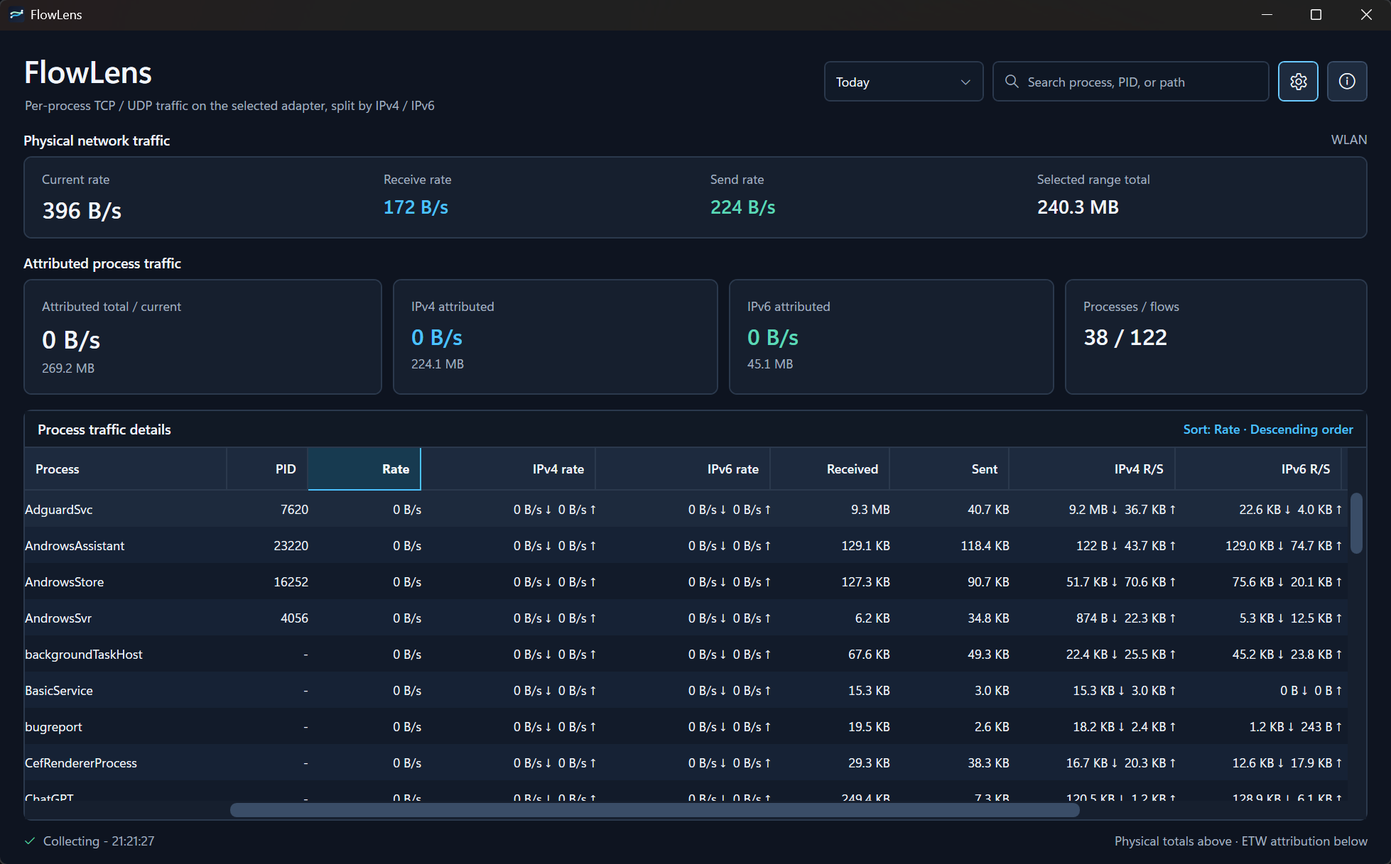
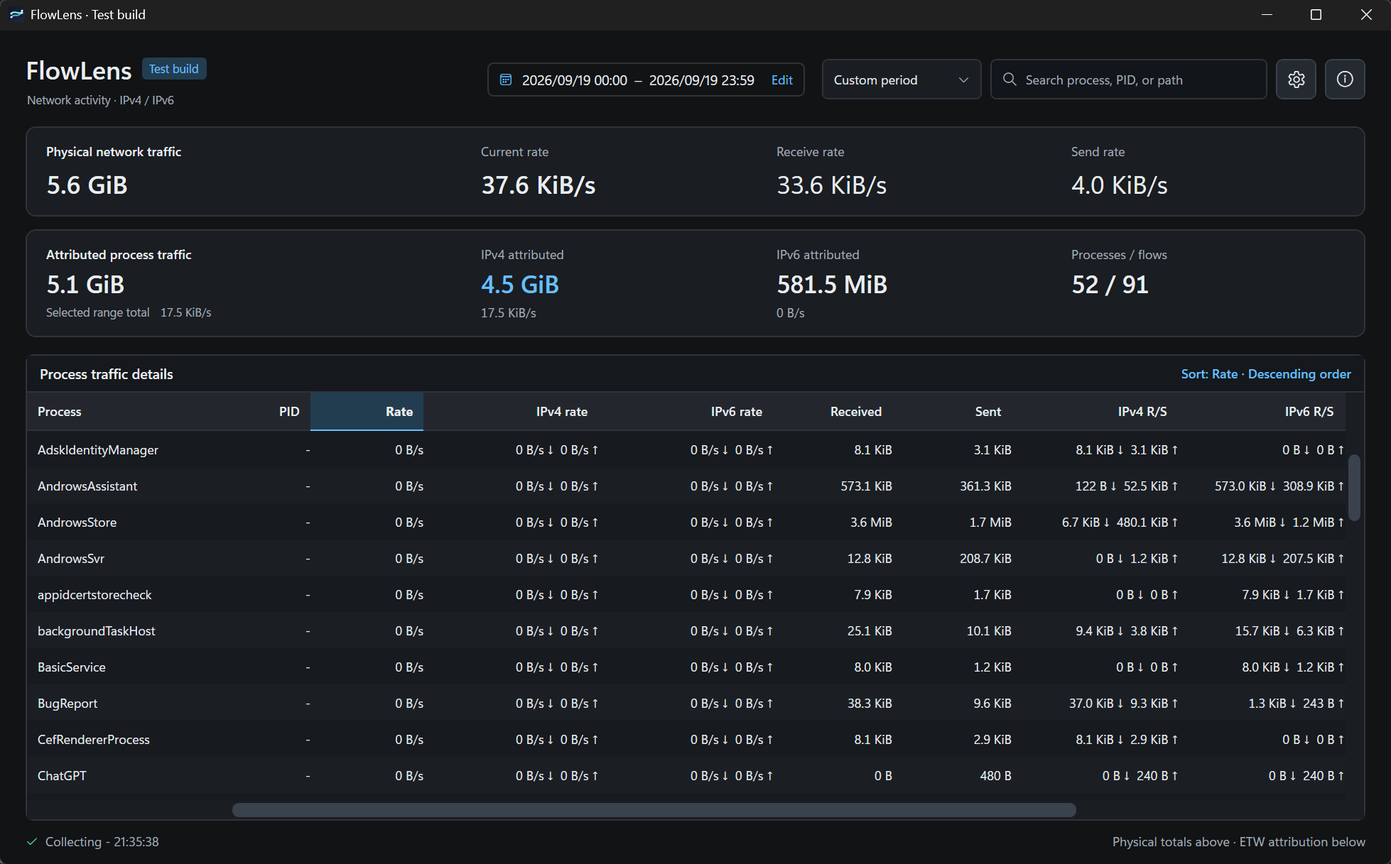
Release 1.0.6 with language-switching documentation

diff --git a/README.md b/README.md
@@ -1,8 +1,10 @@
 # FlowLens
 
+**English** | [简体中文](README.zh-CN.md)
+
 > This project was developed with the assistance of AI tools.
 
-FlowLens is a lightweight Windows traffic monitor that aggregates TCP and UDP traffic by process, with separate IPv4 and IPv6 statistics.
+FlowLens is a lightweight Windows traffic monitor. It shows physical traffic for the selected network adapter and attributes TCP and UDP traffic to processes, with separate IPv4 and IPv6 statistics.
 
 ![FlowLens icon](Assets/FlowLens.png)
 
@@ -12,33 +14,34 @@ FlowLens is a lightweight Windows traffic monitor that aggregates TCP and UDP tr
 
 ## Features
 
-- Per-process TCP and UDP traffic statistics.
-- IPv4 and IPv6 receive/send split.
-- Real-time rate view plus persisted local statistics.
-- Optional time ranges: current session, today, this month, last month, last 7 days, last 30 days, all, and custom dates/hours.
+- Physical network-adapter totals and logical per-process traffic are presented separately.
+- Per-process TCP and UDP statistics with IPv4/IPv6 and receive/send breakdowns.
+- Real-time rates plus persistent local history.
+- Time ranges for the current session, today, this month, last month, the last 7 or 30 days, all history, and custom dates and hours.
+- A compact, responsive interface with themed custom-period controls, calendars, tooltips, tables, and update status.
 - Configurable columns, minimum visible traffic threshold, and refresh interval.
-- Tray mode, close-to-tray, start with Windows, and start minimized.
-- Dark, light, and follow-system themes.
-- Optional always-on-top window and bit/s rate display.
+- Tray mode, close to tray, start with Windows, and start minimized.
+- Dark, light, and follow-system themes, an always-on-top option, and optional bit/s rate display.
 - English and Simplified Chinese UI.
+- Stable-release checks and verified in-place updates from GitHub.
 
 ## Requirements
 
 - Windows 10/11 x64.
-- The official self-contained Windows x64 download includes the .NET runtime; no separate .NET installation is required.
 - Administrator privileges for ETW network capture.
+- The official self-contained Windows x64 package includes the .NET runtime; no separate .NET installation is required.
 
 ## Download
 
-The development branch builds **1.0.6-preview.4 (test build)**, not an official Release. Local builds show a test badge and the full prerelease version in About. The published stable download below remains 1.0.5.
-
-Download the self-contained [FlowLens 1.0.5 Windows x64 package](https://github.com/mgliz/FlowLens/releases/download/v1.0.5/FlowLens-1.0.5-win-x64.zip) from [GitHub Releases](https://github.com/mgliz/FlowLens/releases/latest):
+Download the self-contained [FlowLens 1.0.6 Windows x64 package](https://github.com/mgliz/FlowLens/releases/download/v1.0.6/FlowLens-1.0.6-win-x64.zip) from [GitHub Releases](https://github.com/mgliz/FlowLens/releases/latest):
 
 ```text
-FlowLens-1.0.5-win-x64.zip
+FlowLens-1.0.6-win-x64.zip
 ```
 
-Unzip it and run `FlowLens.exe` as administrator.
+Unzip the package and run `FlowLens.exe` as administrator.
+
+Read the [FlowLens 1.0.6 release notes](docs/releases/v1.0.6.md) or the [complete changelog](CHANGELOG.md).
 
 ## Build
 
@@ -58,38 +61,32 @@ FlowLens stores settings and local traffic history under:
 
 ## Accounting model
 
-- The main total uses byte counters from the selected Windows network interface.
-- Process rows use kernel ETW events. TCP receive endpoints are normalized separately from UDP. Sends must originate on the selected adapter and receives must target it; events with an unknown local endpoint are excluded from adapter attribution.
-- A VPN, TUN adapter, or transparent proxy can expose both an application's original connection and the proxy's outer connection. Address filtering narrows attribution to the selected adapter, but rewritten receive endpoints cannot always be proven to belong to it. Process IPv4 totals are not a campus-billing meter.
+- The physical total comes from byte counters reported by the selected Windows network interface.
+- Process rows use kernel ETW events. TCP receive endpoints are normalized separately from UDP. Sends must originate on the selected adapter, and receives must target it; events with an unknown local endpoint are excluded from adapter attribution.
+- VPNs, TUN adapters, and transparent proxies can expose both an application's original connection and a proxy or tunnel connection. Address filtering narrows attribution to the selected adapter, but ETW cannot always recover the original application behind rewritten traffic. Per-process totals are not a billing meter.
 - IPv4 and IPv6 totals each include received and sent bytes. Byte quantities use binary units (KiB, MiB, GiB); 1 GiB is 1,073,741,824 bytes. Compare the same dates, directions, units, and network when checking another meter.
 - If Windows reports lost ETW events, FlowLens displays a capture warning because affected process totals may be incomplete.
 
-## Notes
+## Updates
 
-### Updates
+Open **About → Check for updates** to check the official `mgliz/FlowLens` GitHub Releases. FlowLens can also check at startup, at most once per day; this can be disabled in Settings. Only stable releases are offered. If the anonymous GitHub API is rate-limited, FlowLens uses the repository's official latest-release page and checksum asset. No GitHub token is required.
 
-Open **About → Check for updates** to query `mgliz/FlowLens` on GitHub. Startup checks run at most once per day and can be disabled in Settings. Only stable Releases are offered. When the anonymous API is rate-limited, FlowLens uses the repository's official latest-Release page and checksum asset; no GitHub token is required.
+For a newer stable release, choose **Download and update**. FlowLens downloads the package, verifies its SHA-256 checksum and executable version, saves history, replaces the executable in place, and restarts from the same path. It keeps a backup executable beside the installation. Cancellation or a preflight failure leaves the running installation unchanged. Installation failures are logged under `%APPDATA%\FlowLens\updates`; if startup of the replacement fails, the updater restores the backup for a manual restart. Settings, history, and startup paths are preserved. The installation folder must be writable.
 
-Choose **Download and update** for a newer stable version, or **Switch to official release** from a test build. Switching replaces unreleased test features even if the official version number is lower. After confirmation, the app downloads and checks SHA-256 and the EXE version, saves history, and restarts at the same installed path. A backup EXE is kept beside the installation. Cancellation or preflight failure leaves the app running. Installation failures are logged under `%APPDATA%\FlowLens\updates`; failed startup restores the backup for a manual restart. Settings, history, and startup paths are preserved. The installation folder must be writable.
+Test builds additionally offer **Switch to official release**. This can install the latest stable release even when its version number is lower, replacing unreleased test features.
 
-更新入口：**关于 → 检查更新**。启动时每天自动检查一次，可在设置中关闭。仅读取本项目正式 GitHub Release，不需要 Token。测试版会显示“切换到正式版”，切换后未发布的测试功能会被正式版替代。校验成功后保存历史、原位更新并重启，保留旧 EXE 备份。
+## Custom periods and history limits
 
-### Custom period
+Select **Custom period**, choose the start and end dates and hours, and click **Apply**. Both selected hours are included: 09:00 through 10:00 represents `[09:00, 11:00)` and is displayed as 09:00–10:59. The applied range appears as a compact summary. **Edit** opens a themed floating editor; **Cancel**, Escape, or clicking outside restores the applied values. Future dates are visible but disabled. The selection survives restarts and applies to both process totals and physical-adapter totals, while rates remain live.
 
-The applied period appears as one compact summary. Click **Edit** to open a floating editor without moving the statistics or table; **Cancel**, Escape, or clicking outside restores the applied values. Calendars use the app's light/dark theme, including month/year navigation and selected dates. Future dates are visible but disabled. The summary ends at the last minute of the selected hour (for example 10:59), while the underlying interval still includes every second before 11:00. The short legacy-history note has a tooltip with the full limitation.
+New history is stored in local calendar-hour buckets. Each sampling interval is assigned to the hour of its ending snapshot, so traffic at an hour boundary can shift by one sampling interval—normally 1 second and configurable up to 10 seconds. This is not per-packet timestamp reconstruction. Repeated local hours during daylight-saving changes share one bucket.
 
-To choose a period, select **Custom period**, pick the start and end dates/hours, and click **Apply**. Both selected hours are included: 09:00 through 10:00 means [09:00, 11:00), displayed as 09:00–10:59. Selection survives restarts and applies to process totals (including IPv4/IPv6) and physical-adapter totals; rates remain live. New history uses local calendar-hour buckets. Each sampling interval is assigned to the snapshot hour, so traffic around an hour boundary can shift by one sampling interval (normally 1 second, configurable to 10); it is not per-packet timestamp reconstruction. Repeated local hours during daylight-saving changes share a bucket.
+Hourly process history is stored in `history-v9.json`, with adapter history in `network-history-v8.json`; buckets are isolated by the actual Windows interface ID. On the first start without the new files, corrected daily histories from `history-v8.json` and `network-history-v7.json` are imported once, retaining their daily keys; the originals remain unchanged. Those imported daily totals are included only when a selected range contains the complete calendar day. A range containing only part of that day omits its imported total because hourly detail cannot be reconstructed. Older, incompatible accounting histories remain isolated.
 
-自选时段：选择 **自定义时段**，设置起止日期和小时后点击 **应用**。包含首尾所选小时，例如 09:00 至 10:00 表示统计 09:00 到 11:00 之前的流量。进程和网卡总量使用同一范围，重启后保留选择，速率仍为实时值。新数据按本地小时保存；跨整点的一次采样归到采样结束所在小时，边界可能偏移一个采样间隔。旧日统计不会拆分或平均分配到小时，仅当范围完整包含该天时计入；选择部分小时会排除该日旧数据，界面会持续显示这一限制。
-
-FlowLens counts traffic while it is running. It does not backfill traffic that happened before the app started.
-
-Hourly process accounting is stored in `history-v9.json`, with adapter totals in `network-history-v8.json`. Buckets are isolated by the actual Windows interface ID. On the first start with no new history file, the corrected local daily files (`history-v8.json` / `network-history-v7.json`) are copied in memory with their original daily keys and subsequently saved to the new files. Originals are preserved. Restarting uses the new files and does not import again. Older, known-incompatible accounting histories remain isolated. A corrupt new file blocks saving and is not replaced by fallback data. Daily totals are included only for fully selected calendar days; missing hourly detail cannot be recovered.
-
-Every source snapshot updates history before UI rendering can coalesce refreshes. Incomplete intervals spanning capture failures or adapter recovery establish a new baseline and are excluded from both histories. A normal exit records the final complete interval before saving. If a history file cannot be read, the app reports a persistence error and refuses to overwrite that file.
+FlowLens counts traffic only while it is running and cannot backfill earlier activity. Every complete source snapshot updates history even when UI refreshes are coalesced. Intervals spanning capture failure or adapter recovery establish a new baseline and are excluded. A normal exit records the final complete interval before saving. An unreadable new history file blocks saving and is preserved rather than overwritten with fallback data.
 
 Linux is not supported by this WPF/ETW version. A Linux build would require a separate UI and capture backend.
 
 ## License
 
-MIT License.
+FlowLens is available under the [MIT License](LICENSE).

diff --git a/README.zh-CN.md b/README.zh-CN.md
@@ -1,0 +1,92 @@
+# FlowLens
+
+[English](README.md) | **简体中文**
+
+> 本项目在开发过程中使用了 AI 工具协助。
+
+FlowLens 是一款轻量级 Windows 流量监控工具。它显示所选网卡的物理流量，并按进程归集 TCP 和 UDP 流量，分别统计 IPv4 与 IPv6。
+
+![FlowLens 图标](Assets/FlowLens.png)
+
+## 界面截图
+
+![FlowLens 主窗口](docs/screenshot.zh-CN.png)
+
+## 功能
+
+- 分开展示网卡物理流量和按进程归集的逻辑流量。
+- 按进程统计 TCP、UDP 流量，并细分 IPv4/IPv6 与接收/发送方向。
+- 显示实时速率，并在本地持久保存历史统计。
+- 支持本次运行、今天、本月、上月、最近 7 天、最近 30 天、全部历史以及自定义日期和小时。
+- 紧凑且可响应窗口宽度的界面；自定义时段控件、日历、工具提示、表格和更新状态均适配主题。
+- 可配置显示列、最小可见流量阈值和刷新间隔。
+- 支持托盘模式、关闭到托盘、开机启动和启动时最小化。
+- 支持深色、浅色、跟随系统主题、窗口置顶，以及以 bit/s 显示速率。
+- 支持英文和简体中文界面。
+- 可从 GitHub 检查正式版，并在校验后原位更新。
+
+## 系统要求
+
+- Windows 10/11 x64。
+- 使用 ETW 捕获网络流量需要管理员权限。
+- 官方 Windows x64 自包含包已包括 .NET 运行时，无需另行安装 .NET。
+
+## 下载
+
+从 [GitHub Releases](https://github.com/mgliz/FlowLens/releases/latest) 下载自包含的 [FlowLens 1.0.6 Windows x64 安装包](https://github.com/mgliz/FlowLens/releases/download/v1.0.6/FlowLens-1.0.6-win-x64.zip)：
+
+```text
+FlowLens-1.0.6-win-x64.zip
+```
+
+解压后，以管理员身份运行 `FlowLens.exe`。
+
+查看 [FlowLens 1.0.6 发布说明](docs/releases/v1.0.6.zh-CN.md)或[完整更新日志](CHANGELOG.zh-CN.md)。
+
+## 构建
+
+```powershell
+dotnet restore
+dotnet build .\FlowLens.csproj -c Release
+dotnet publish .\FlowLens.csproj -c Release -r win-x64 --self-contained true -p:PublishSingleFile=true -p:IncludeNativeLibrariesForSelfExtract=true
+```
+
+## 数据位置
+
+FlowLens 将设置和本地流量历史保存在：
+
+```text
+%APPDATA%\FlowLens
+```
+
+## 统计口径
+
+- 物理流量总量来自 Windows 为所选网络接口报告的字节计数器。
+- 进程行来自内核 ETW 事件。TCP 接收端点与 UDP 分别进行方向归一化。发送流量必须从所选网卡发出，接收流量必须以该网卡为目标；本地端点未知的事件不会归入所选网卡。
+- VPN、TUN 网卡和透明代理可能同时暴露应用的原始连接与代理或隧道连接。地址筛选可缩小到所选网卡，但 ETW 并非总能找回改写后流量背后的原始应用。进程流量不应作为计费依据。
+- IPv4 和 IPv6 总量均包含接收与发送字节。字节量采用二进制单位（KiB、MiB、GiB），1 GiB 为 1,073,741,824 字节。与其他计量结果对比时，应使用相同的日期、方向、单位和网络。
+- 如果 Windows 报告 ETW 事件丢失，FlowLens 会显示捕获警告，因为受影响的进程总量可能不完整。
+
+## 更新
+
+打开 **关于 → 检查更新**，即可检查 `mgliz/FlowLens` 的官方 GitHub Release。FlowLens 也可以在启动时检查，每天最多一次；可在设置中关闭。程序只提供正式版。匿名 GitHub API 受到速率限制时，FlowLens 会改用仓库的官方最新 Release 页面和校验和文件，不需要 GitHub Token。
+
+发现较新的正式版后，选择 **下载并更新**。FlowLens 会下载安装包，校验 SHA-256 和可执行文件版本，保存历史数据，在原路径替换可执行文件并重启。原可执行文件的备份会保留在安装目录。取消或预检失败不会改变正在运行的安装。安装失败日志位于 `%APPDATA%\FlowLens\updates`；如果替换后的程序启动失败，更新器会恢复备份，供用户手动重启。设置、历史记录和启动路径都会保留。安装目录必须可写。
+
+测试版还会提供 **切换到正式版**。即使最新正式版的版本号更低，也可以切换，并以正式版替换尚未发布的测试功能。
+
+## 自定义时段与历史限制
+
+选择 **自定义时段**，设置起止日期和小时后点击 **应用**。首尾所选小时都计入：09:00 至 10:00 表示 `[09:00, 11:00)`，界面显示为 09:00–10:59。已应用的范围会显示为紧凑摘要；点击 **修改** 可打开适配主题的浮动编辑器。点击 **取消**、按 Escape 或点击编辑器外部，都会恢复已应用的值。未来日期可见但不可选择。选择会在重启后保留，并同时用于进程总量和网卡物理总量；速率始终显示实时值。
+
+新历史按本地日历小时保存。每个采样间隔归入结束快照所在的小时，因此整点附近的流量可能偏移一个采样间隔——通常为 1 秒，最长可配置为 10 秒。这并不是按数据包时间戳重建。夏令时切换时重复出现的本地小时共用同一个桶。
+
+进程小时历史保存在 `history-v9.json`，网卡历史保存在 `network-history-v8.json`；各个统计桶按实际 Windows 网络接口 ID 隔离。首次启动且新文件不存在时，程序会一次性导入 `history-v8.json` 与 `network-history-v7.json` 中的修正后日统计，并保留原有日键；原文件不会改变。这些导入的日总量只会在所选范围完整包含该日时计入。若范围只覆盖该日的部分小时，则会排除这一天的导入总量，因为无法重建小时明细。更早且统计口径不兼容的历史文件继续隔离保存。
+
+FlowLens 只统计程序运行期间的流量，无法补录启动前的活动。每个完整源快照都会先更新历史，即使界面刷新被合并也不受影响。跨越捕获失败或网卡恢复的间隔只建立新基线，不计入历史。正常退出时，程序会在保存前记录最后一个完整间隔。新的历史文件如果无法读取，程序会阻止保存并保留原文件，不会用回退数据覆盖。
+
+此 WPF/ETW 版本不支持 Linux。Linux 版本需要独立的界面与捕获后端。
+
+## 许可证
+
+FlowLens 依据具有法律效力的英文 [MIT License](LICENSE) 发布。另提供一份仅供理解的[中文译文](LICENSE.zh-CN.md)。

diff --git a/docs/releases/v1.0.6.md b/docs/releases/v1.0.6.md
@@ -1,0 +1,24 @@
+# FlowLens 1.0.6
+
+**English** | [简体中文](v1.0.6.zh-CN.md)
+
+FlowLens 1.0.6 adds GitHub updates and refines the desktop interface, including custom-period editing and complete light/dark calendar styling. This is a stable release, without the test-build badge.
+
+## What's new
+
+- **GitHub updates:** check the official `mgliz/FlowLens` Releases from About, or automatically at most once per day at startup. Startup checks can be disabled in Settings. A fallback handles anonymous API rate limits without a GitHub token.
+- **Verified installation:** downloads are checked against SHA-256 and the executable version. The app saves its data and exits normally before replacement, preserves settings/history, and keeps an EXE backup. Failed startup restores the backup for a manual restart.
+- **Compact interface:** the complete custom-period summary sits beside the toolbar, controls wrap when space is limited, statistics have less empty space, and process names have comfortable horizontal margins.
+- **Consistent time controls:** the floating date/hour editor and calendars use the same fade transition as other dropdowns. Cancel, Escape, and outside dismissal restore the applied period. Corrected invalid date input no longer needs an extra Apply click.
+- **Theme and display fixes:** readable light/dark calendar day, month and year views; themed hover tooltips; correct adapter names in Settings; no persistent toolbar outlines; and a compact update panel in About.
+- **Language navigation:** documentation defaults to English, with separate Simplified Chinese pages linked from each entry point.
+
+## Download and upgrade
+
+Download [FlowLens-1.0.6-win-x64.zip](https://github.com/mgliz/FlowLens/releases/download/v1.0.6/FlowLens-1.0.6-win-x64.zip), extract it, and run `FlowLens.exe` as administrator. The package supports Windows 10/11 x64 and **includes the .NET runtime**; no separate .NET installation is required. Checksums are available in [SHA256SUMS.txt](https://github.com/mgliz/FlowLens/releases/download/v1.0.6/SHA256SUMS.txt).
+
+Users of 1.0.5 should download this package manually. A preview build with the updater can find this release through **About → Check for updates**. For a manual upgrade, exit the old app from its tray menu before starting the new EXE. Settings and traffic history stay in `%APPDATA%\FlowLens`.
+
+## History compatibility
+
+This release keeps the history format introduced in 1.0.5. New samples use local hourly buckets; older daily totals are included only when the entire day is selected. Existing daily records cannot be reconstructed into hourly detail. Statistics accumulate while FlowLens is running; this version does not retrospectively change earlier traffic records.

diff --git a/docs/releases/v1.0.6.zh-CN.md b/docs/releases/v1.0.6.zh-CN.md
@@ -1,0 +1,24 @@
+# FlowLens 1.0.6
+
+[English](v1.0.6.md) | **简体中文**
+
+FlowLens 1.0.6 新增 GitHub 更新功能，并完善桌面界面、自选时段编辑及日历的深浅色主题。这是正式版本，不再显示测试版标识。
+
+## 本次更新
+
+- **GitHub 更新：**可在“关于”中检查 `mgliz/FlowLens` 的官方 Release，也可在启动时每天自动检查至多一次。自动检查可在设置中关闭；匿名 API 达到限额时使用备用查询方式，无需 GitHub Token。
+- **校验后安装：**下载后校验 SHA-256 和程序版本，保存数据并正常退出后再替换程序。保留设置、历史记录和旧 EXE 备份；新版本启动失败时恢复备份，随后可手动重启。
+- **紧凑的界面：**完整自选时段放在顶部工具栏附近，空间不足时自动换行；减少统计区的空白，并为进程名称增加水平留白。
+- **统一的时间控件：**日期和小时编辑浮层、日历与现有下拉菜单使用一致的淡入过渡。取消、按 Escape 或点击浮层外部会恢复已应用的时段；纠正无效日期后无需多点一次“应用”。
+- **主题与显示修复：**完善日历日期、月份和年份视图的深浅色显示；悬浮提示跟随主题；设置中正确显示网卡名称；工具栏按钮不再残留描边；关于窗口的更新区更紧凑。
+- **语言切换：**文档默认使用英文，通过入口链接切换至独立的简体中文页面。
+
+## 下载与升级
+
+下载 [FlowLens-1.0.6-win-x64.zip](https://github.com/mgliz/FlowLens/releases/download/v1.0.6/FlowLens-1.0.6-win-x64.zip)，解压后以管理员身份运行 `FlowLens.exe`。支持 Windows 10/11 x64，**已包含 .NET 运行时**，无需另行安装。校验文件见 [SHA256SUMS.txt](https://github.com/mgliz/FlowLens/releases/download/v1.0.6/SHA256SUMS.txt)。
+
+1.0.5 用户需要手动下载此包；带有更新功能的测试版可通过 **关于 → 检查更新** 获取本次正式版。手动升级时，先从托盘菜单退出旧程序，再运行新的 EXE。设置和流量历史继续保存在 `%APPDATA%\FlowLens`。
+
+## 历史兼容
+
+本版继续使用 1.0.5 引入的历史格式。新采样按本地小时保存；旧日统计仅在所选时段完整包含该天时计入，无法还原成小时明细。FlowLens 只在运行期间累计流量，本次升级不会回溯改写此前的流量记录。

diff --git a/CHANGELOG.md b/CHANGELOG.md
@@ -1,5 +1,20 @@
 # Changelog
 
+**English** | [简体中文](CHANGELOG.zh-CN.md)
+
+## 1.0.6 - 2026-09-20
+
+- Check official GitHub Releases from About or once per day at startup, with a fallback for anonymous API rate limits.
+- Download and verify update checksums and executable versions, then update at the existing path after a normal exit. Keep an EXE backup and restore it if startup fails.
+- Distinguish test builds from stable releases and provide an explicit way to switch to the official release.
+- Simplify the header and statistics groups, move the complete custom-period summary into the toolbar area, and add horizontal spacing to process names.
+- Edit custom dates and hours in a compact popup with consistent fade transitions; cancel or dismiss it to restore the applied period.
+- Make calendar day/month/year views, selected and disabled dates, tooltips, and primary buttons readable in both light and dark themes.
+- Fix corrected date input, adapter-name display in Settings, persistent toolbar outlines, and empty space in About's update panel.
+- Provide English-first documentation with separate Simplified Chinese pages and language-switch links.
+
+[Release notes and download](docs/releases/v1.0.6.md)
+
 ## 1.0.6-preview.4 - Local test build
 
 - Remove the selected-range caption and adapter name from the physical network traffic summary.

diff --git a/CHANGELOG.zh-CN.md b/CHANGELOG.zh-CN.md
@@ -1,0 +1,20 @@
+# 更新日志
+
+[English](CHANGELOG.md) | **简体中文**
+
+## 1.0.6 - 2026-09-20
+
+- 可在“关于”中检查官方 GitHub Release，也可在启动时每天自动检查一次；匿名 API 达到限额时使用备用查询方式。
+- 下载后校验更新包哈希和程序版本，正常退出后在原位置完成更新；保留旧 EXE 备份，新版本启动失败时恢复备份。
+- 区分测试版和正式版，并提供切换至官方正式版的明确入口。
+- 精简顶部工具栏和统计区，将完整自选时段移至顶部，并为进程名称增加水平留白。
+- 通过紧凑浮层编辑起止日期和小时，使用统一的淡入过渡；取消或关闭浮层后恢复已应用的时段。
+- 完善深浅色主题下日历的日期、月份、年份、选中和禁用状态，以及悬浮提示和主按钮的文字可读性。
+- 修复日期纠正后的提交、设置中的网卡名称显示、工具栏按钮残留描边，以及关于窗口更新区域的多余空白。
+- 文档默认使用英文，提供独立的简体中文页面和语言切换链接。
+
+[完整发布说明与下载](docs/releases/v1.0.6.zh-CN.md)
+
+## 较早版本
+
+较早版本的更新记录保留原文，参见 [English changelog](CHANGELOG.md#106-preview4---local-test-build)。

diff --git a/LICENSE.zh-CN.md b/LICENSE.zh-CN.md
@@ -1,0 +1,15 @@
+# MIT 许可证中文译文（非官方）
+
+[English](LICENSE) | **简体中文**
+
+本文件是 [MIT License 英文原文](LICENSE)的中文参考译文。英文原文是本项目适用的正式许可证；如有差异，以英文原文为准。
+
+MIT 许可证
+
+版权所有 (c) 2026 FlowLens 贡献者
+
+特此免费授予任何获得本软件及相关文档文件（以下简称“软件”）副本的人不受限制地处置本软件的权利，包括但不限于使用、复制、修改、合并、发布、分发、再许可和/或销售本软件副本的权利，并允许获得本软件的人这样做，但须符合以下条件：
+
+上述版权声明和本许可声明应包含在本软件的所有副本或实质性部分中。
+
+本软件按“原样”提供，不作任何形式的明示或默示保证，包括但不限于对适销性、特定用途适用性和非侵权性的保证。在任何情况下，无论是因合同、侵权行为还是其他原因，作者或版权持有人均不对因本软件或本软件的使用或其他交易而产生、引起或与之相关的任何索赔、损害或其他责任承担责任。
